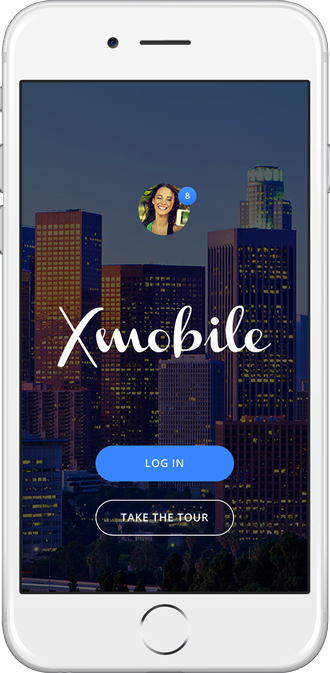
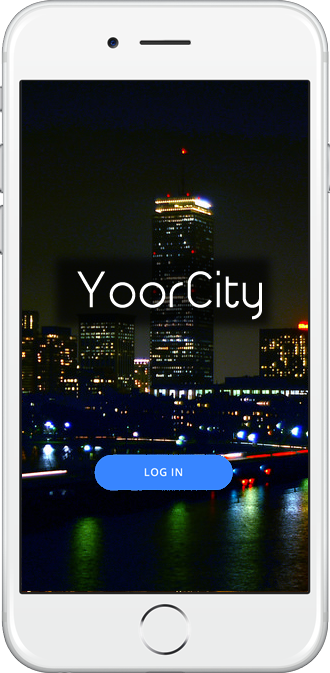
Change background of landing page
Add a bit more text

diff --git a/static/landing/styles/main.css b/static/landing/styles/main.css
@@ -516,11 +516,6 @@ a.btn-theme {
 header {
   color: #fff;
 	background: url(../images/backgrounds/bg1.jpg) no-repeat center top fixed;
-	-webkit-background-size: cover !important;
-	   -moz-background-size: cover !important;
-		-ms-background-size: cover !important;
-		 -o-background-size: cover !important;
-			background-size: cover !important;
 	filter: progid:DXImageTransform.Microsoft.AlphaImageLoader(src='../images/backgrounds/bg5.jpg', sizingMethod='scale');
 	-ms-filter: "progid:DXImageTransform.Microsoft.AlphaImageLoader(src='../images/backgrounds/bg5.jpg', sizingMethod='scale')";
 	position: relative;
@@ -1179,6 +1174,7 @@ header .btn-theme {
 #features {
 	text-align: center;
 	overflow: hidden;
+  padding-top: 50px;
 }
 
 #features .block:first-child {
@@ -1249,11 +1245,6 @@ header .btn-theme {
 	z-index:0;
 	overflow: hidden;
 	padding: 0;
-	-webkit-background-size: cover !important;
-	   -moz-background-size: cover !important;
-		-ms-background-size: cover !important;
-		 -o-background-size: cover !important;
-			background-size: cover !important;
 	filter: progid:DXImageTransform.Microsoft.AlphaImageLoader(src='../images/backgrounds/bg9.jpg', sizingMethod='scale');
 	-ms-filter: "progid:DXImageTransform.Microsoft.AlphaImageLoader(src='../images/backgrounds/bg9.jpg', sizingMethod='scale')";
 }
@@ -1302,7 +1293,7 @@ header .btn-theme {
 	border-radius: 50px 0 0 50px;
 	width: 90%;
 	display: inline-block;
-	background: rgba(255,255,255,0.3);
+	background: rgba(255,255,255,0.6);
 	border: none;
 	height: 60px;
 	float: left;
@@ -1311,19 +1302,19 @@ header .btn-theme {
 }
 
 #subscription input::-webkit-input-placeholder {
-	color: rgba(255,255,255,0.6) !important;
+	color: rgba(255,255,255,1) !important;
 }
 
 #subscription input:-moz-placeholder {
-	color: rgba(255,255,255,0.6) !important;
+	color: rgba(255,255,255,1) !important;
 }
 
 #subscription input::-moz-placeholder {
-	color: rgba(255,255,255,0.6) !important;
+	color: rgba(255,255,255,1) !important;
 }
 
 #subscription input:-ms-input-placeholder {
-	color: rgba(255,255,255,0.6) !important;
+	color: rgba(255,255,255,1) !important;
 }
 
 #subscription input:focus {
@@ -1686,7 +1677,7 @@ header .btn-theme {
 /*---------------------------------------------------------*/
 
 footer {
-	padding: 120px 0 80px;
+	padding: 60px 0 60px;
 	text-align: center;
 }
 

diff --git a/config.js b/config.js
@@ -40,7 +40,7 @@ module.exports = Object.assign({
   apiHost: process.env.APIHOST || 'localhost',
   apiPort: process.env.APIPORT,
   databaseUrl: process.env.DATABASE_URL || 'postgres://jahmaiosullivan:Star2016@localhost:5432/HobbyClue',
-  tagLine: 'Connect with other people in your city!',
+  tagLine: 'Share ideas with other professionals in your city',
   auth,
   app: {
     title: webSiteName,

diff --git a/static/landing/landing.html b/static/landing/landing.html
@@ -6,6 +6,7 @@
 <body>
 <div class="global-wrap">
   <% include ./header %>
+  <% include ./services %>
   <% include ./features %>
   <% include ./footer %>
 </div>
